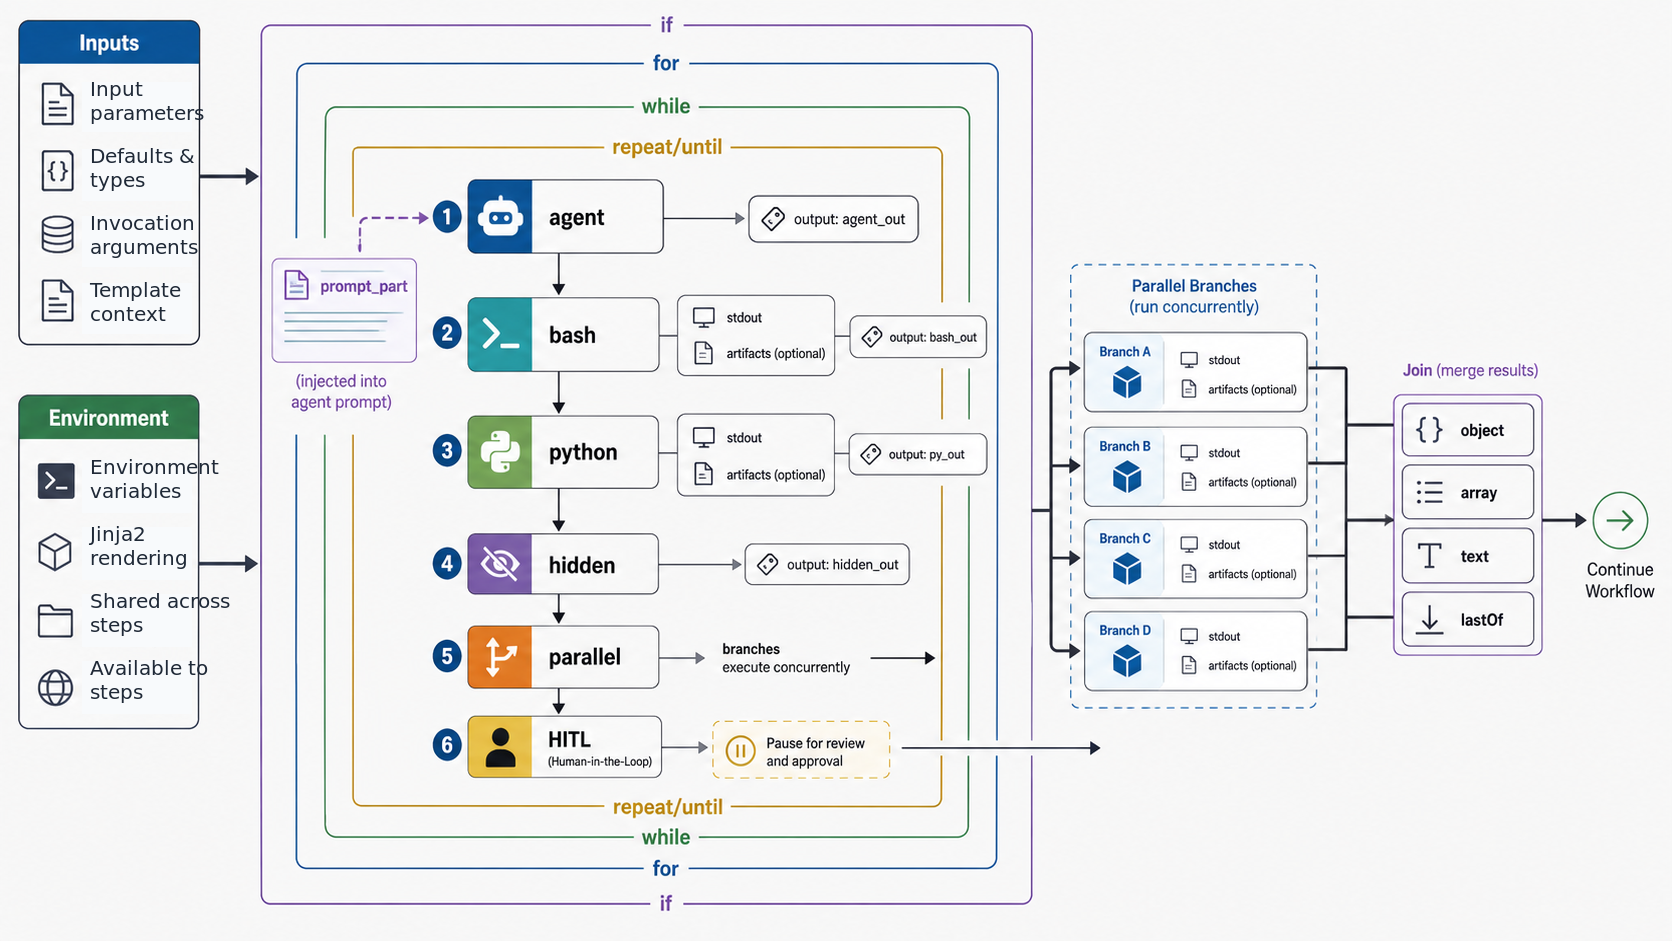
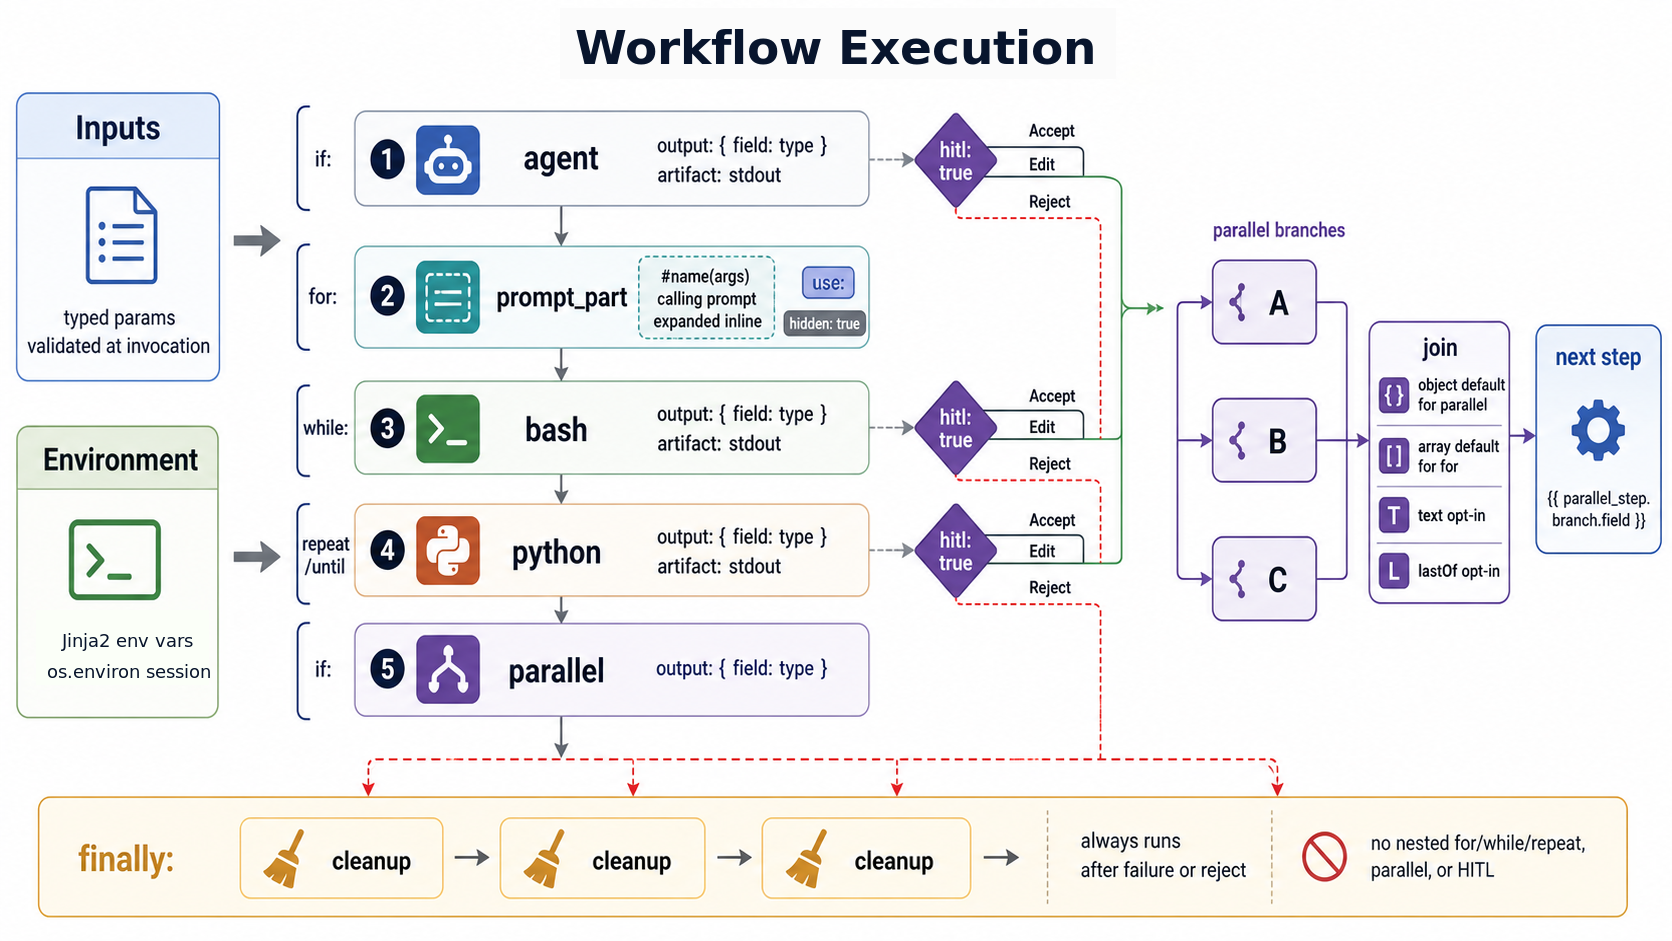
chore: regenerate workflow-execution infographic (sase-2s.19) (sase-2s)
PLAN=sdd/tales/202605/complete_sase_2s.md

Changed region(s): [[0.0, 0.0, 0.9952, 0.9862], [0.0311, 0.8937, 0.1244, 0.9245], [0.7464, 0.8321, 0.7775, 0.8629]]

diff --git a/docs/images/workflow-execution-infographic.prompt.md b/docs/images/workflow-execution-infographic.prompt.md
@@ -10,46 +10,53 @@ Embedded in `docs/workflow_spec.md` after the opening paragraph and before `## T
 
 ## Intended Alt Text
 
-Workflow execution model showing inputs, environment, ordered steps, prompt injection, control flow wrappers, artifacts,
-parallel branches, join modes, and human-in-the-loop gates.
+Workflow execution model showing inputs, environment, five execution step types, prompt injection, per-step control
+modifiers, named outputs, artifacts, parallel branch joins, HITL gates, and finally cleanup.
 
 ## Final GPT Image Prompt
 
-Create a 16:9 landscape documentation infographic for a technical Markdown manual, light neutral background, crisp
-architecture diagram style, clean blocks and arrows, restrained but distinct accent colors.
+Use case: infographic-diagram Asset type: documentation PNG for `docs/images/workflow-execution-infographic.png` in a
+technical Markdown manual.
 
-Subject: SASE YAML workflow execution model.
+Primary request: Create a revised 16:9 landscape architecture infographic for the SASE YAML workflow execution model,
+addressing these correctness requirements: five real step execution types are `agent`, `prompt_part`, `bash`, `python`,
+and `parallel`; `hidden` is a modifier badge, not a step type; HITL is a `hitl: true` approval gate attached after
+`agent` / `bash` / `python` steps, not a step type; `prompt_part` expands into a calling prompt at the `#name(args)`
+reference site; named outputs and `artifact: stdout` flow forward; parallel branches join and then feed a downstream
+next step; `finally:` cleanup runs even after failure or HITL rejection.
 
-Composition:
+Style/medium: crisp software documentation architecture diagram, light neutral background, clean vector-like blocks,
+restrained but distinct accent colors, readable at GitHub Markdown width, no logos, no screenshots.
 
-- Left column: "Inputs" and "Environment" as two source blocks flowing into a central execution lane.
-- Center lane: ordered workflow steps moving left to right / top to bottom. Include short labels for the execution forms
-  and workflow controls readers see in `docs/workflow_spec.md`: agent, bash, python, hidden, parallel, and HITL.
-- Make prompt_part visually distinct as text injection into an agent prompt, not a separate LLM/model call. Show it as a
-  small document fragment feeding into the agent prompt path.
-- Show bash/python producing stdout and optional artifacts; show named outputs/artifacts flowing forward between steps.
-- Around the center lane, show control wrappers as thin bands or brackets labeled: if, for, while, repeat/until.
-- Right side: parallel branches split, execute concurrently, and join back together. Include four compact join labels:
-  object, array, text, lastOf.
-- Make HITL read as a `hitl: true` human approval gate that can pause after agent, bash, or python work, not as a
-  standalone execution type.
+Composition/framing: 16:9, generous spacing, three zones. Left zone has two distinct source blocks titled `Inputs` and
+`Environment`. Center zone has an ordered workflow lane with five horizontal step cards in order: `agent`,
+`prompt_part`, `bash`, `python`, `parallel`. Put small per-step control brackets near example cards labeled `if:`,
+`for:`, `while:`, `repeat/until`; make the bracket scope visibly per-step. Attach a small `hidden: true` badge to one
+example card. Add a reusable `use:` import badge on one step. Place a HITL approval gate diamond on the downstream side
+of the `agent` / `bash` / `python` area with short labels `Accept`, `Edit`, `Reject` and an `approved -> downstream`
+hint. Right zone shows parallel fan-out into branches A, B, C, then a join panel with four modes and default notes, then
+a downstream next step tile consuming a named field. Bottom strip shows `finally:` cleanup steps with a dotted connector
+from failure/reject paths and the note `always runs`.
 
-Style requirements:
+Text constraints: use only short labels from the workflow spec, including `Inputs`, `typed params`,
+`validated at invocation`, `Environment`, `Jinja2 env vars`, `os.environ session`, `output: { field: type }`,
+`{{ step.field }}`, `artifact: stdout`, `{{ step._artifact }}`, `#name(args)`, `calling prompt`, `expanded inline`,
+`hitl: true`, `Accept`, `Edit`, `Reject`, `approved`, `object default for parallel`, `array default for for`,
+`text opt-in`, `lastOf opt-in`, `{{ parallel_step.branch.field }}`, `finally:`, `cleanup`, `always runs`,
+`after failure or reject`, and `no nested for/while/repeat, parallel, or HITL`.
 
-- Technical architecture infographic, not marketing art.
-- No logos, no screenshots, no code paragraphs, no dense body text.
-- Use short legible labels only; dark text on light blocks; generous spacing.
-- Avoid decorative gradients and avoid a one-hue palette.
-- Use simple line icons and arrows; readable at GitHub Markdown width.
-- Final image should feel consistent with a software documentation diagram.
+Constraints: Do not show `hidden` or HITL as rows in the execution-type lane. Do not draw control wrappers around the
+whole workflow lane; show per-step brackets only. Do not make the parallel join the terminus; it must feed a next step.
+Keep labels large and legible, dark text on light blocks. Avoid dense paragraphs and avoid decorative gradients. No
+watermarks.
 
 ## Post-Processing Notes
 
-Generated with the built-in image generation tool, copied into `docs/images/workflow-execution-infographic.png`, then
-post-processed with ImageMagick to replace generated left-column labels with deterministic workflow-spec terminology:
-input parameters, defaults and types, invocation arguments, template context, environment variables, Jinja2 rendering,
-shared step environment, and values available to steps.
+Generated with the built-in image generation tool on 2026-05-10, copied into
+`docs/images/workflow-execution-infographic.png`, then lightly post-processed with ImageMagick to correct generated text
+defects in the title and environment block while preserving the generated composition.
 
-Audited on 2026-05-09 against `docs/workflow_spec.md`, `docs/images/infographic-style-brief.md`, and the current
-`docs/images/workflow-execution-infographic.png` (1672x941). The target insertion point, Markdown alt text, left-column
-labels, prompt_part injection depiction, join labels, and HITL approval-gate framing match the current documentation.
+The regenerated image addresses the critique in `docs/images/workflow-execution-infographic.critique.md`: `hidden` is a
+badge, HITL appears as approval gates rather than a step row, control wrappers are scoped to example steps,
+`prompt_part` is shown expanding into a calling prompt, parallel join feeds a downstream next step, and a `finally:`
+cleanup strip is present.
